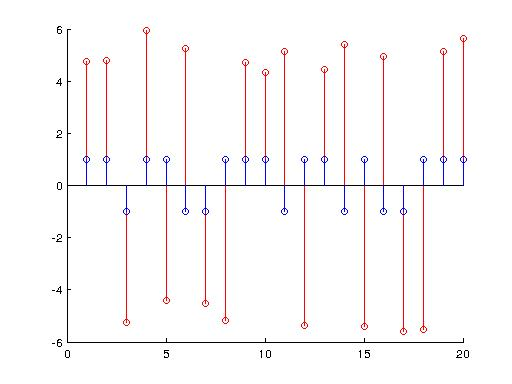
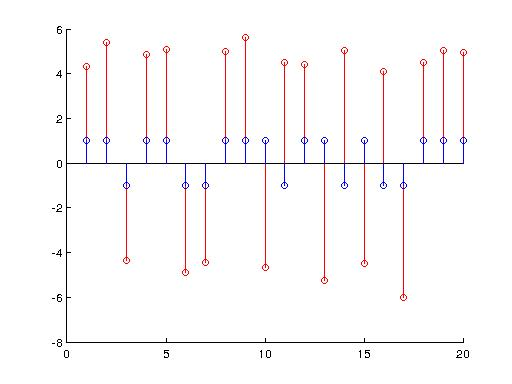
done with proj_3

diff --git a/summer2015/dsp/proj_3/matched_filters.m b/summer2015/dsp/proj_3/matched_filters.m
@@ -80,7 +80,11 @@ ny1 = conv(np1,h1);
 
 %what happens when the threshholding produces too few values?
 threshed = ny1(abs(ny1) >= 4);
+
 hold on;
 stem(threshed(1:20),'r')
 stem(m)
 hold off;
+
+e=m.*threshed;
+sum(e<0)/20
